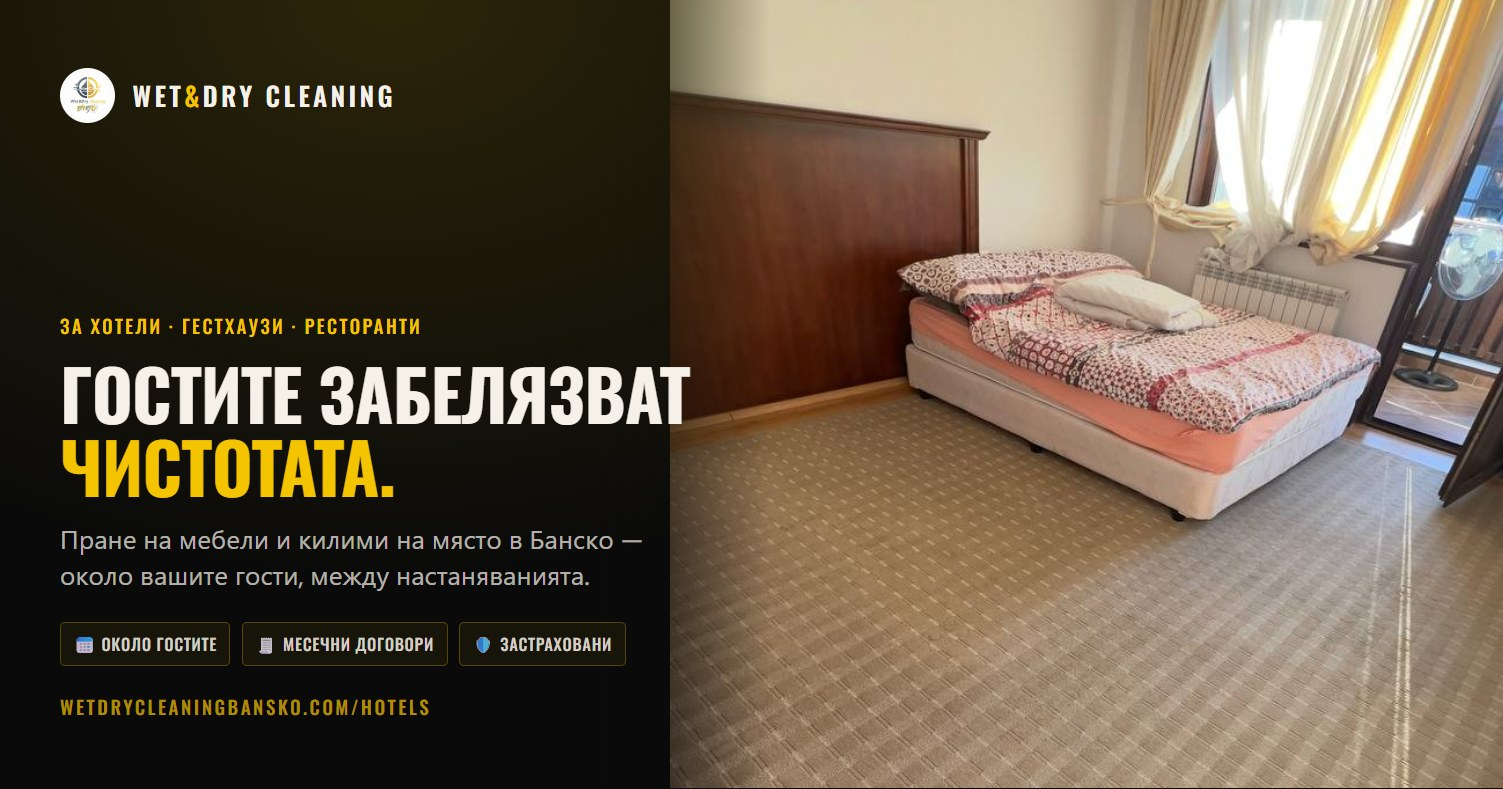
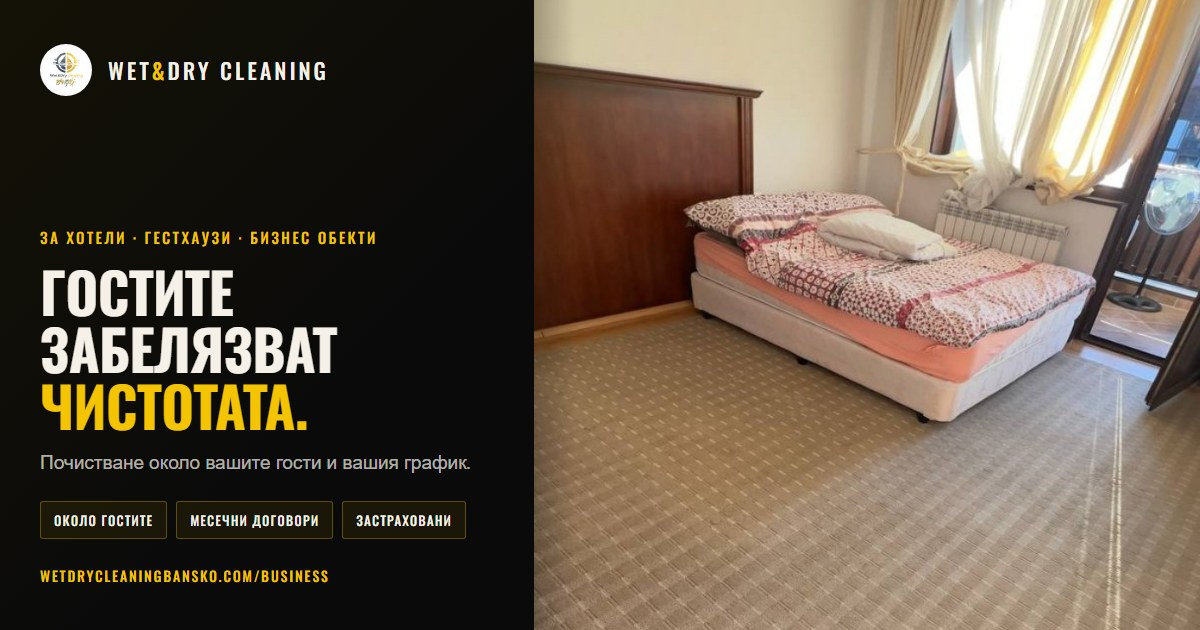
fix: bouton B2B toujours actif, et OG regenerees sans prix
Formulaire business
- le bouton portait pointer-events-none tant que le telephone etait
  vide : grise, non cliquable, et le message d erreur que je venais
  d ajouter ne pouvait donc jamais s afficher. Contrainte supprimee,
  href toujours present, WhatsApp sur mobile et mailto sur desktop en
  permanence. Sur ces deux canaux le client ecrit depuis son propre
  numero ou sa propre adresse, exiger un telephone au prealable n avait
  aucun sens
- asterisque retiree du libelle telephone, elle annoncait un champ
  obligatoire qui ne l est plus

Images Open Graph
- les trois OG d accueil affichaient un badge de prix. Le retrait des
  prix ne les avait pas couvertes, mon inventaire ne portait que sur le
  code et le contenu
- les trois OG business affichaient l ancienne URL /hotels
- aucune des six n etait au format : cinq en 1503x789, et l anglaise en
  1920x900, d ou la bande noire signalee
- les six sont regenerees en 1200x630 exactement

scripts/make-og.mjs genere les six depuis un gabarit HTML rendu par
Playwright. Les photos sources des pages business n existaient que dans
les anciennes images, elles sont extraites dans scripts/og-source/ pour
que le script reste rejouable.

diff --git a/components/hotels/HotelsLeadForm.tsx b/components/hotels/HotelsLeadForm.tsx
@@ -16,7 +16,6 @@ export default function HotelsLeadForm() {
   const [name, setName] = useState('')
   const [phone, setPhone] = useState('')
   const [establishment, setEstablishment] = useState('')
-  const [phoneError, setPhoneError] = useState(false)
 
   const toggleService = (val: string) =>
     setServices(prev => prev.includes(val) ? prev.filter(s => s !== val) : [...prev, val])
@@ -123,16 +122,8 @@ export default function HotelsLeadForm() {
             <div>
               <label htmlFor={`${uid}-phone`} className="block text-xs text-cream/50 uppercase tracking-widest mb-1">{f.phoneLabel}</label>
               <input id={`${uid}-phone`} value={phone}
-                aria-required="true"
-                aria-invalid={phoneError}
-                aria-describedby={phoneError ? `${uid}-phone-error` : undefined}
-                onChange={e => { setPhone(e.target.value); setPhoneError(false) }}
-                placeholder={f.phonePlaceholder} className={`input-dark w-full text-sm ${phoneError ? 'border-red-500' : ''}`} />
-              {phoneError && (
-                <p id={`${uid}-phone-error`} role="alert" className="mt-1 text-xs text-red-400">
-                  {t.hero.form.validationPhone}
-                </p>
-              )}
+                onChange={e => setPhone(e.target.value)}
+                placeholder={f.phonePlaceholder} className="input-dark w-full text-sm" />
             </div>
             <div>
               <label htmlFor={`${uid}-establishment`} className="block text-xs text-cream/50 uppercase tracking-widest mb-1">{f.establishmentLabel}</label>
@@ -142,17 +133,17 @@ export default function HotelsLeadForm() {
           </div>
 
           <div className="lg:hidden space-y-2">
-            <a href={phone ? waUrl : undefined} target="_blank" rel="noopener noreferrer"
-              onClick={() => (phone ? setStep('success') : setPhoneError(true))}
-              className={`btn-gold w-full justify-center py-3 text-sm ${!phone ? 'opacity-40 pointer-events-none' : ''}`}>
+            <a href={waUrl} target="_blank" rel="noopener noreferrer"
+              onClick={() => setStep('success')}
+              className="btn-gold w-full justify-center py-3 text-sm">
               {f.submitBtn}
             </a>
             <p className="text-cream/55 text-xs text-center">{f.disclaimer}</p>
           </div>
 
           <div className="hidden lg:block space-y-2">
-            <a href={phone ? emailUrl : undefined} onClick={() => (phone ? setStep('success') : setPhoneError(true))}
-              className={`btn-gold w-full justify-center py-3 text-sm ${!phone ? 'opacity-40 pointer-events-none' : ''}`}>
+            <a href={emailUrl} onClick={() => setStep('success')}
+              className="btn-gold w-full justify-center py-3 text-sm">
               {f.emailBtn}
             </a>
             <p className="text-cream/55 text-xs text-center">{f.disclaimerEmail}</p>

diff --git a/public/og/README.md b/public/og/README.md
@@ -42,6 +42,18 @@ Tu ne peux donc pas casser un aperçu en oubliant un fichier. Chaque image que t
 
 Pas de prix. Pas de numéro de téléphone. Pas d'URL. Pas de QR code. Ce sont les mêmes règles que pour les visuels Google Business, et pour la même raison : ça fait publicité et ça se fait rejeter ou ignorer.
 
+## Régénérer les OG principales
+
+Les six images d'accueil et de page business sont générées par un script, pas dessinées à la main :
+
+```bash
+node scripts/make-og.mjs
+```
+
+Textes, badges et photos se modifient dans `scripts/make-og.mjs`. Les photos sources des pages business sont dans `scripts/og-source/` : elles n'existent nulle part ailleurs, ne les supprime pas. Le script écrit toujours en 1200 × 630 et peut se relancer autant de fois que voulu sans dégrader le résultat.
+
+Playwright n'est pas une dépendance du projet, le script le prend dans le dossier voisin `freelanceos`. Si tu le déplaces : `PLAYWRIGHT_PATH=... node scripts/make-og.mjs`.
+
 ## Les fichiers déjà en place
 
 Ils vivent à la racine de `public/`, pas dans ce dossier, et ils sont déjà en cache chez Facebook et WhatsApp. Les renommer casserait les aperçus des liens déjà partagés en prospection, donc on les laisse où ils sont.

diff --git a/CLAUDE.md b/CLAUDE.md
@@ -83,7 +83,7 @@ Workflow : déposer les fichiers, commiter, pusher. Aucun code ni JSON à touche
 
 ## Images Open Graph
 
-`public/og/<slug>.jpg` en 1200x630. Le site prend la première image disponible : l'OG dédiée, sinon la première photo `after` de `public/gallery/<slug>/`, sinon l'OG de la langue. Détails et specs dans `public/og/README.md`.
+`public/og/<slug>.jpg` en 1200x630. Le site prend la première image disponible : l'OG dédiée, sinon la première photo `after` de `public/gallery/<slug>/`, sinon l'OG de la langue. Détails et specs dans `public/og/README.md`. Les six OG principales se régénèrent avec `node scripts/make-og.mjs`.
 
 Les OG historiques (`og-image-*.jpg`, `og-hotels-*.jpg`) restent à la racine de `public/` : elles sont en cache chez Facebook et WhatsApp et ont servi en prospection, les renommer casserait les aperçus déjà partagés.
 
